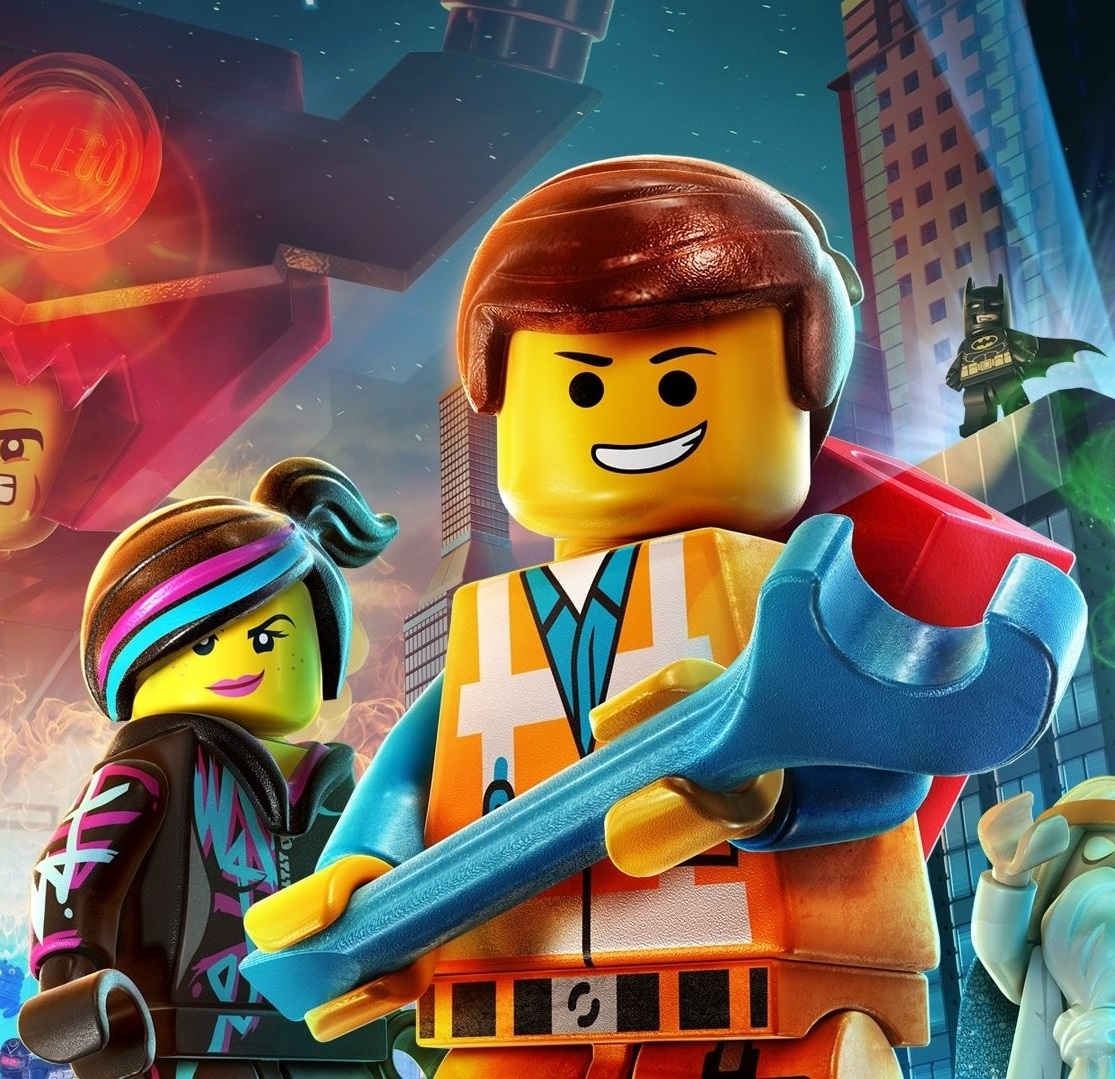
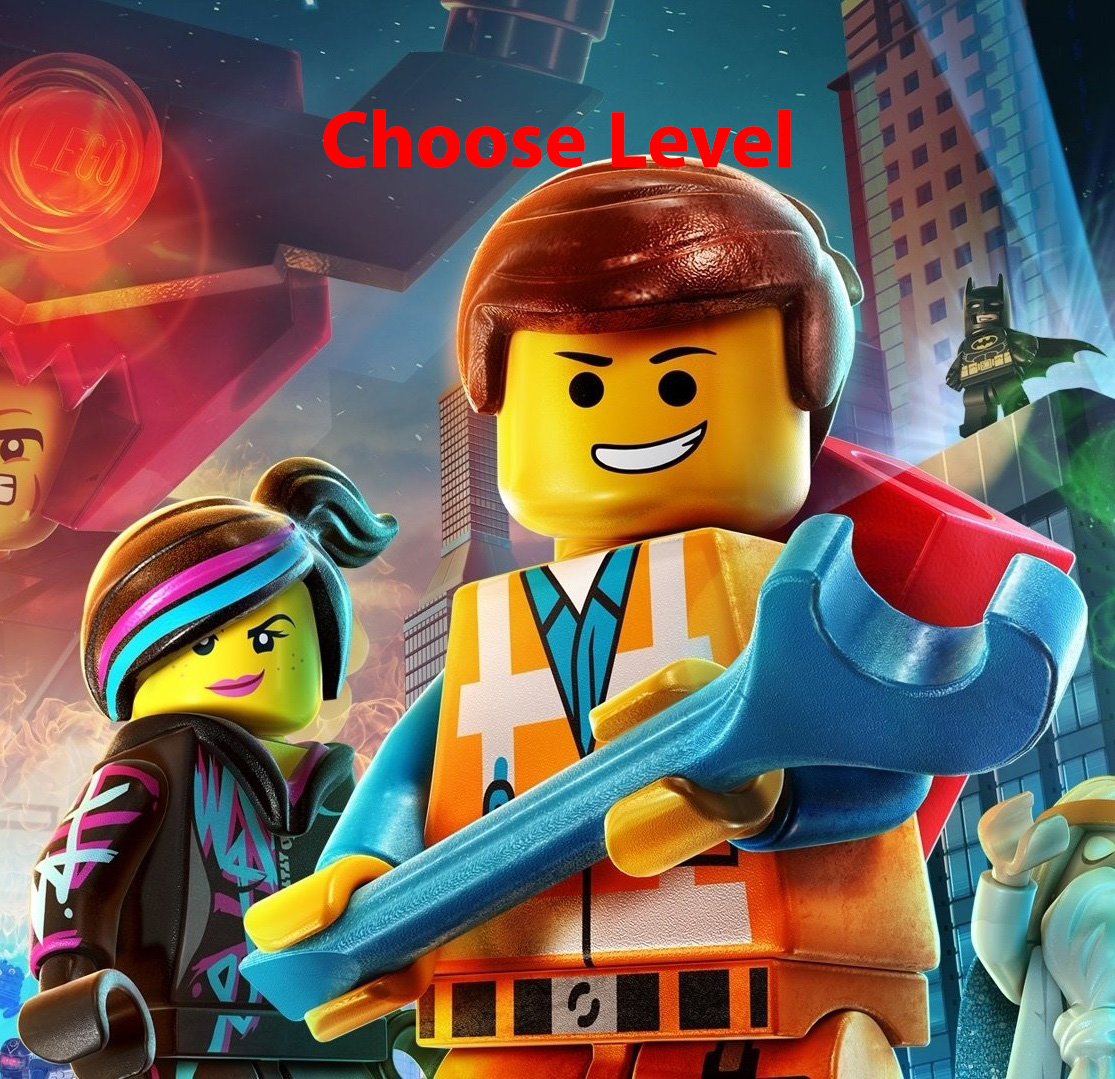
controller

Changed region(s): [[0.2744, 0.0918, 0.7318, 0.1529]]

diff --git a/src/eg/edu/alexu/csd/oop/game/Controller.java b/src/eg/edu/alexu/csd/oop/game/Controller.java
@@ -2,10 +2,13 @@ package eg.edu.alexu.csd.oop.game;
 
 import eg.edu.alexu.csd.oop.game.GameEngine;
 import eg.edu.alexu.csd.oop.game.object.PairOfPlayers;
+import eg.edu.alexu.csd.oop.game.object.Player;
+import eg.edu.alexu.csd.oop.game.object.Players;
 import eg.edu.alexu.csd.oop.game.world.GUI.View;
 import eg.edu.alexu.csd.oop.game.world.Level.LevelFactory;
 import eg.edu.alexu.csd.oop.game.world.WorldImp;
 
+import javax.swing.*;
 import java.awt.*;
 import java.awt.event.ActionEvent;
 import java.awt.event.ActionListener;
@@ -14,11 +17,16 @@ import java.awt.event.WindowEvent;
 public class Controller {
    private View view;
    private LevelFactory level;
+   String [] imagesName ;
+   Players player;
     public Controller(View view , LevelFactory level){
         this.level = level;
         this.view = view;
         this.view.mainGui.Listener(new Listener());
         this.view.levelPanel.Listener(new Listener());
+        this.view.playerPanel.Listener(new Listener());
+        imagesName = new String[]{"batman.png" , "captain-america.png" ,"iron-man.png" , "joker.png" ,"spiderman.png"};
+
     }
 
     class Listener implements ActionListener{
@@ -30,24 +38,33 @@ public class Controller {
             }
 
            else if(e.getActionCommand().equals("Play"))
-               mainListener();
+               closePanel(view.mainGui,view.playerPanel);
+            else if(e.getActionCommand().equals("Single")){
+                 player = new Player(500,550,"/characters/"+imagesName[(int)(Math.random() * imagesName.length)]);
+                closePanel(view.playerPanel , view.levelPanel);
+            }
+
+            else if(e.getActionCommand().equals("Pair")){
+                 player = new PairOfPlayers(500,550,"/characters/"+imagesName[(int)(Math.random() * imagesName.length)],"/characters/"+imagesName[(int)(Math.random() * imagesName.length)]);
+                closePanel(view.playerPanel , view.levelPanel);
+            }
 
            else {
                 levelListener(e.getActionCommand());
-                System.out.println(level.getState().getClass());
                 view.setVisible(false);
                 view.dispose();
                 runGame();
             }
         }
     }
-    // this is for closing the main panel and open the level panel
-    private void mainListener(){
-        view.add(view.levelPanel);
-        view.remove(view.mainGui);
+
+    private void closePanel(JPanel old , JPanel newOne){
+        view.add(newOne);
+        view.remove(old);
         view.getContentPane().invalidate();
         view.getContentPane().validate();
     }
+
     private void levelListener(String s){
         if(s.toLowerCase().equals("easy"))
            level.setState("easy");
@@ -57,8 +74,9 @@ public class Controller {
             level.setState("hard");
     }
     private void runGame(){
-        GameEngine.start("title", new WorldImp(new PairOfPlayers(500, 550, "/characters/batman.png", "/characters/joker.png"),level.getState()), Color.black);
+        GameEngine.start("title", new WorldImp(this.player,level.getState()), Color.black);
     }
+
 
 
 

diff --git a/src/eg/edu/alexu/csd/oop/game/world/GUI/PlayerPanel.java b/src/eg/edu/alexu/csd/oop/game/world/GUI/PlayerPanel.java
@@ -10,14 +10,12 @@ import java.io.IOException;
 import java.util.ArrayList;
 import java.util.Objects;
 
-public class LevelPanel extends JPanel {
-
+public class PlayerPanel extends JPanel {
     private BufferedImage image;
-    JButton button;
     ArrayList<JButton> buttons = new ArrayList<>();
-    public LevelPanel() {
+    public PlayerPanel() {
         try {
-            image = ImageIO.read(new File("lego.jpg"));
+            image = ImageIO.read(new File("player.jpg"));
         } catch (IOException e) {
             e.printStackTrace();
         }
@@ -30,24 +28,20 @@ public class LevelPanel extends JPanel {
         this.setBounds(0,0,500,700);
         this.setLayout(null);
 
-        String[] levelName = {"Easy","Medium","Hard"};
-        for(int i=0;i<3;i++){
-            button = new JButton(levelName[i]);
+        String[] levelName = {"Single","Pair"};
+        for(int i=0;i<2;i++){
+            JButton button = new JButton(levelName[i]);
             buttons.add(button);
             button.setBounds(150,150+(i*110),200,60);
-            button.setBackground(Color.YELLOW);
+            button.setBackground(Color.red);
             picLabel.add(button);
-            button.setContentAreaFilled(false);
+
             button.setFont(new Font("Arial", Font.BOLD, 20));
-            button.setForeground(Color.white);
-            button.setBorder(BorderFactory.createBevelBorder(1)); // Inner Bevel Border
+            button.setForeground(Color.black);
         }
     }
-
     public void Listener(ActionListener listenForButton){
         for(JButton button : buttons)
-                button.addActionListener(listenForButton);
-
+            button.addActionListener(listenForButton);
     }
-
 }

diff --git a/src/eg/edu/alexu/csd/oop/game/world/GUI/View.java b/src/eg/edu/alexu/csd/oop/game/world/GUI/View.java
@@ -4,17 +4,19 @@ import javax.swing.*;
 import java.awt.*;
 
 public class View extends JFrame {
-    public LevelPanel levelPanel ;
-    public MainGui mainGui;
+     public LevelPanel levelPanel ;
+     public MainGui mainGui;
+     public PlayerPanel playerPanel;
+
     public View() {
         levelPanel = new LevelPanel();
         mainGui = new MainGui();
-
+        playerPanel = new PlayerPanel();
         this.add(mainGui);
         this.setLayout(new CardLayout());
-        this.setBounds(0, 0, 500, 700);
+        this.setBounds(600, 200, 500, 700);
         this.setDefaultCloseOperation(JFrame.EXIT_ON_CLOSE);
-        this.setTitle("Choose Level");
+        this.setTitle("Circus Of Lego");
         this.setVisible(true);
     }
 

diff --git a/src/eg/edu/alexu/csd/oop/game/world/GUI/MainGui.java b/src/eg/edu/alexu/csd/oop/game/world/GUI/MainGui.java
@@ -12,7 +12,6 @@ import java.util.Objects;
 
 public class MainGui extends JPanel {
     private BufferedImage image;
-
     ArrayList<JButton> buttons = new ArrayList<>();
     public MainGui() {
         try {
